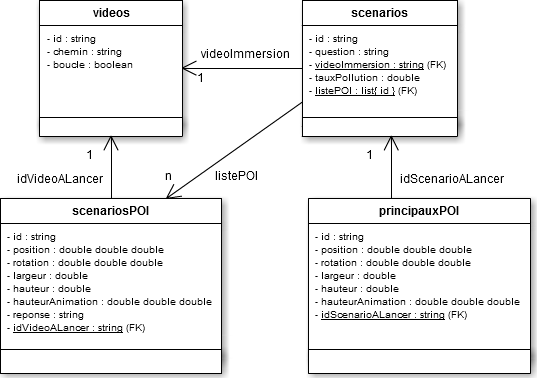
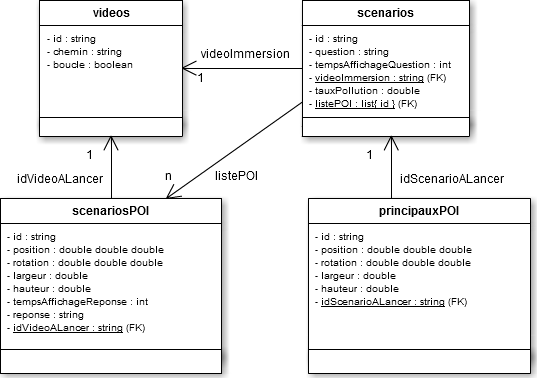
ajout de la possibilité de remplacer les video d'immersion par des images

diff --git a/index.html b/index.html
@@ -125,6 +125,17 @@
             document.write(html);
             document.getElementById('principaleVideo').setAttribute('visible', true);
         </script>
+        <!--Les images a-sky-->
+        <script>
+            var transformSky = [
+              {"<>":"a-sky","id":"${id}","src":"${chemin}","visible":"false", "html":""}
+            ];  
+            var html = json2html.transform(images, transformSky);
+            document.write(html);
+        </script>
+
+        <!--<a-sky src="./img/image3.jpg" id="img1"  visible="false"></a-sky>
+        <a-sky src="./img/image2.jpg" id="img2"  visible="false"></a-sky>-->
         
 
       <script type="text/javascript">
@@ -136,6 +147,37 @@
           pollution1.setAttribute("pollution", {"multiplier" : x})
         }
 
+          //  debut d'un scenario a image'
+        function startScenarioImage(elem) {
+          document.getElementById('principaleVideo').setAttribute('visible', false);
+          var scenario = $(elem).attr("idScenarioALancer")
+          setPollution(0.0)
+          for(var l in scenarios){
+            if(scenarios[l].id == scenario){
+              var tempsquestion = scenarios[l].tempsAffichageQuestion;
+            }
+          }
+          document.getElementById('videoNoir').currentTime = 0
+          launchQuestion(scenario)
+          var sceneEl = document.getElementById("videoNoirVideo")
+          sceneEl.setAttribute('visible', 'true')
+          setTimeout(function(){
+          console.log("on est là")
+          for(var q in scenarios){
+            if(scenarios[q].id == scenario){
+              document.getElementById(scenarios[q].imageImmersion).setAttribute('visible', true)
+              if(scenarios[q].tauxPollution > 3){
+                setPollution(3.0)
+              } else{
+                setPollution(scenarios[q].tauxPollution)
+              }
+            }
+          }
+          sceneEl.setAttribute('visible', 'false')
+          
+          hideQuestion(scenario)    
+          }, tempsquestion)
+        }
         //déclenche le début d'un scénario'
         function startScenario(elem) {
           var scenario = $(elem).attr("idScenarioALancer")
@@ -146,6 +188,7 @@
             }
           }
           setPollution(0.0)
+          document.getElementById('principaleVideo').setAttribute('visible', false);
           document.getElementById('videoNoir').currentTime = 0
           launchQuestion(scenario)
           var sceneEl = document.getElementById("videoNoirVideo")
@@ -189,6 +232,10 @@
             for(var u in videos){
               document.getElementById(videos[u].id+'Video').setAttribute('visible', 'false')
             }    
+            for(var v in images){
+              document.getElementById(images[v].id).setAttribute('visible', 'false')
+            } 
+            document.getElementById('img1').setAttribute('visible', false);
             document.getElementById(videolance+'Video').setAttribute('visible', 'true')  
             setTimeout(function(){
               finishScenario(elem)
@@ -199,6 +246,7 @@
         // Fin du scenario et retour a la scene principale
         function finishScenario(element) {
           setPollution(0.0)
+          document.getElementById('principaleVideo').setAttribute('visible', true);
           var tempsreponse = $(element).attr("tempsAffichageReponse")
           document.getElementById( $(element).attr("idVideoALancer")+'Video').setAttribute('visible', 'false')
           document.getElementById('videoNoir').currentTime = 0
@@ -266,9 +314,16 @@
     var transformPrincipauxPOI = [
           {"<>":"a-entity","id":"${id}","html":[
             {"<>":"a-plane","id":"${id}"+"hidden", "idScenarioALancer":"${idScenarioALancer}", "visible":"true","onclick":function(e){
-            
-            startScenario(this);
-            
+            console.log(this.attr("idScenarioALancer"));
+            for(var b in scenarios){
+                  if(scenarios[b].id == (this.attr("idScenarioALancer"))){
+                    if(scenarios[b].type == "video"){
+                      startScenario(this);
+                    } else{
+                      startScenarioImage(this);
+                    }
+                  }
+                }
         }, "position":"${position}","rotation":"${rotation}","width":"${largeur}","height":"${hauteur}","transparent":"true","opacity":"0","html":[
                 {"<>":"a-image","id":"${id}"+"image","position":"-0.05 -0.05 -0.05","src":"#viseurAsset","width":"2.5","height":"2.5","html":""}
                 // {"<>":"a-animation","attribute":"scale","fill":"backwards","begin":"fusing","end":"mouseleave", "repeat":"indefinite","from":"1 1 1", "to":"1 0.1 0.1","dur":"3000","html":""}
